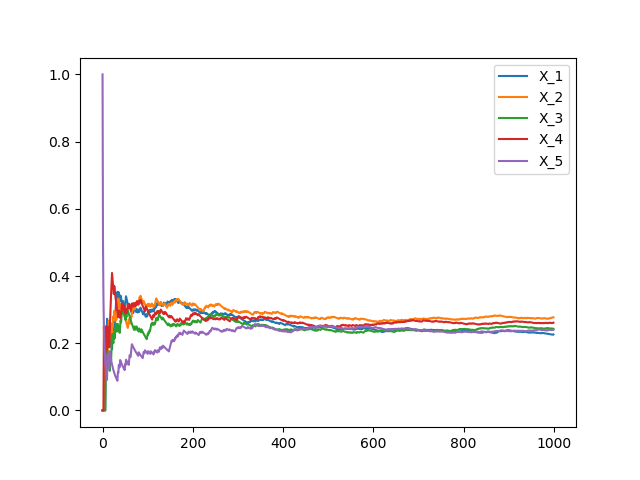
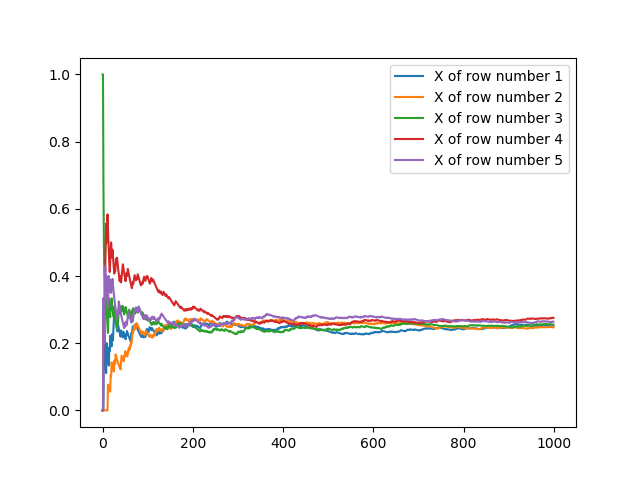
...

Changed region(s): [[0.1562, 0.1562, 0.875, 0.875], [0.625, 0.125, 0.875, 0.375]]

diff --git a/ex1/3d_gausian.py b/ex1/3d_gausian.py
@@ -12,7 +12,10 @@ scaled_matrix = np.dot(scaling_matrix, x_y_z)
 projection_matrix = np.diag(np.array([1, 1, 0]))
 data = np.random.binomial(1, 0.25, (100000, 1000))
 epsilons = [0.5, 0.25, 0.1, 0.01, 0.001]
-f = lambda d, m: np.apply_along_axis(np.mean, 0, d[:m])
+# f = lambda d, m: np.apply_along_axis(np.mean, 0, d[:m])
+cummean = lambda x: x.cumsum() / np.arange(1, len(x) + 1)
+pct = lambda x, epsilon: np.true_divide(np.where(x >= epsilon)[0].shape[0], 100000)
+means = np.apply_along_axis(cummean, 1, data)
 
 
 def hoeffding(m, eps):
@@ -72,7 +75,7 @@ def q_24():
     # plt.show()
     plt.savefig('q24.png')
     # the covariance matrix will look like S^2 now since the original was Id_3
-    scaled_covariance = scaled_matrix ** 2
+    # scaled_covariance = scaled_matrix ** 2
 
 
 def q_25():
@@ -103,11 +106,11 @@ def q_27():
 
 def q_29_a():
     for i in range(5):
-        y = [f(data[i], m) for m in range(1, 1001)]
-        plt.plot(y, label='X_' + str(i + 1))
+        plt.plot(means[i], label='X of row number ' + str(i + 1))
     plt.legend(bbox_to_anchor=(1, 1))
     # plt.show()
     plt.savefig('q29_a.png')
+    plt.close()
 
 
 def q_29_b():
@@ -122,20 +125,23 @@ def q_29_b():
     plt.legend(bbox_to_anchor=(2.5, .75))
     # plt.show()
     plt.savefig('q29_b.png')
+    plt.close()
 
 
 def q_29_c():
+    new_means = np.abs(means - 0.25)
     for i in range(5):
-        plt.subplot(5, 5, i + 1)
+        plt.subplot(2, 3, i + 1, autoscale_on=True)
         hf_g = [hoeffding(m, epsilons[i]) for m in range(1, 1001)]
         ch_g = [chevyshev(m, epsilons[i]) for m in range(1, 1001)]
+        pct_matrix = np.apply_along_axis(pct, 0, new_means, epsilons[i])
         plt.plot(hf_g, label='hoeffding bound')
         plt.plot(ch_g, label='chevyshev bound')
+        plt.plot(pct_matrix, label='precentage')
         plt.title('epsilon=' + str(epsilons[i]))
     plt.legend(bbox_to_anchor=(1, 1))
-    plt.show()
-    # plt.savefig('q29_c.png')
-
+    # plt.show()
+    plt.savefig('q29_c.png')
 
 
 if __name__ == '__main__':
